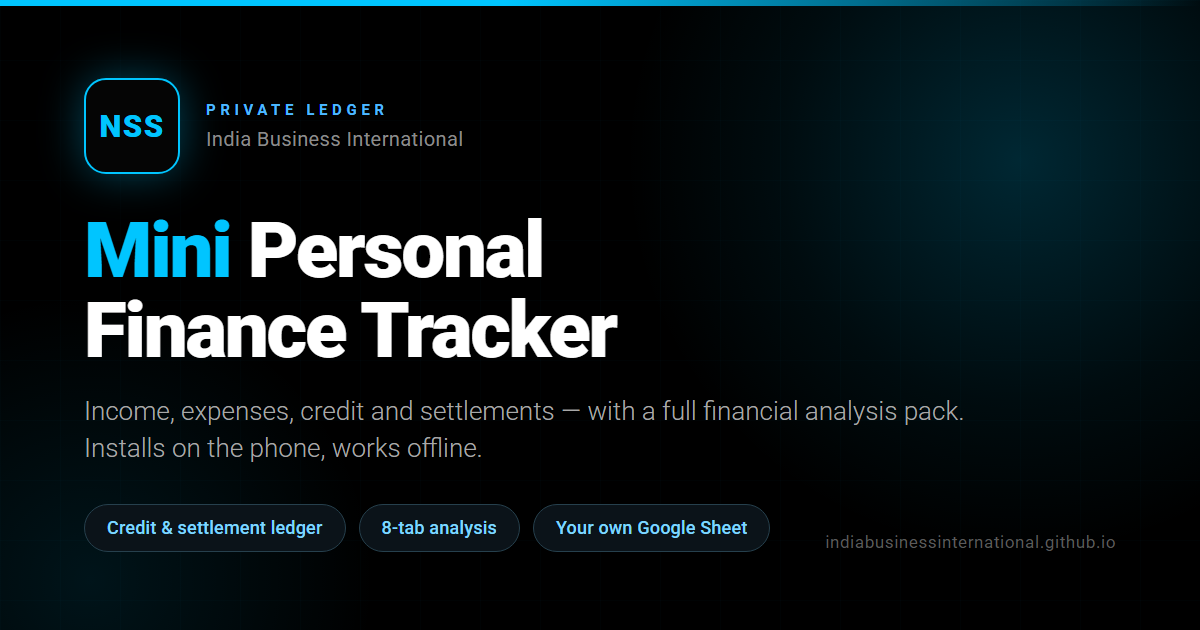
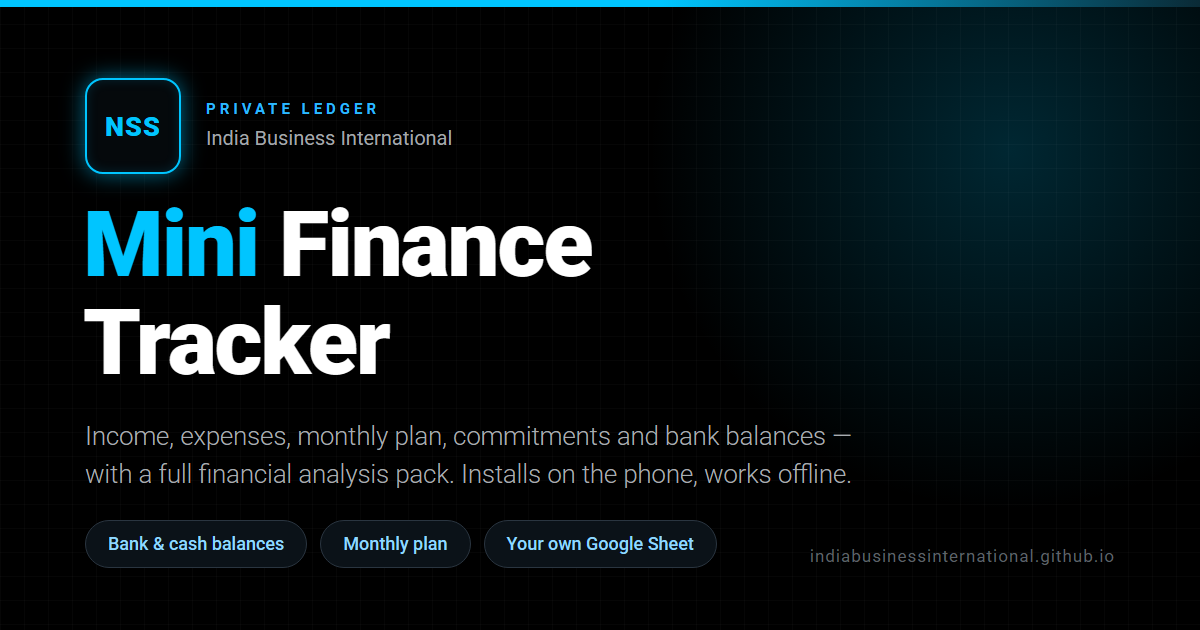
v4.4 — renamed Mini Finance Tracker
Display name only: title, top bar, sign-in gate, footer, print/CSV headers,
manifest name, OG/Twitter tags, a redrawn og-banner.png, GAS messages.
Address, repo and file names unchanged.

diff --git a/index.html b/index.html
@@ -7,21 +7,21 @@
 <meta name="apple-mobile-web-app-capable" content="yes">
 <meta name="apple-mobile-web-app-status-bar-style" content="black">
 <meta name="apple-mobile-web-app-title" content="Mini Finance">
-<meta name="description" content="Mini Personal Finance Tracker — a private income, expense and credit ledger for N. Sowdhamini Sasimurugan.">
-<title>Mini Personal Finance Tracker</title>
+<meta name="description" content="Mini Finance Tracker — a private income, expense and credit ledger for N. Sowdhamini Sasimurugan.">
+<title>Mini Finance Tracker</title>
 <!-- Open Graph / social sharing -->
 <meta property="og:type" content="website">
 <meta property="og:site_name" content="India Business International">
-<meta property="og:title" content="Mini Personal Finance Tracker">
+<meta property="og:title" content="Mini Finance Tracker">
 <meta property="og:description" content="A private personal ledger — fast entry, credit and settlement tracking, and a full financial analysis pack. Works offline on mobile.">
 <meta property="og:url" content="https://indiabusinessinternational.github.io/MiniPersonalFinanceTracker/">
 <meta property="og:image" content="https://indiabusinessinternational.github.io/MiniPersonalFinanceTracker/og-banner.png">
 <meta property="og:image:width" content="1200">
 <meta property="og:image:height" content="630">
-<meta property="og:image:alt" content="Mini Personal Finance Tracker — India Business International">
+<meta property="og:image:alt" content="Mini Finance Tracker — India Business International">
 <!-- Twitter Card -->
 <meta name="twitter:card" content="summary_large_image">
-<meta name="twitter:title" content="Mini Personal Finance Tracker">
+<meta name="twitter:title" content="Mini Finance Tracker">
 <meta name="twitter:description" content="A private personal ledger — fast entry, credit and settlement tracking, and a full financial analysis pack. Works offline on mobile.">
 <meta name="twitter:image" content="https://indiabusinessinternational.github.io/MiniPersonalFinanceTracker/og-banner.png">
 <link rel="canonical" href="https://indiabusinessinternational.github.io/MiniPersonalFinanceTracker/">
@@ -873,7 +873,7 @@ tbody tr.tx-row{cursor:pointer}
     <div class="topbar-left">
       <div class="mono-logo"><span class="js-mono">Mini</span></div>
       <div class="topbar-title">
-        <div class="app-name"><span class="app-name-text">Mini Personal Finance Tracker</span><span class="ver-badge">v4.3</span></div>
+        <div class="app-name"><span class="app-name-text">Mini Finance Tracker</span><span class="ver-badge">v4.4</span></div>
       </div>
     </div>
     <div class="topbar-right">
@@ -1222,7 +1222,7 @@ tbody tr.tx-row{cursor:pointer}
   <div id="bankBalList" class="cm-list"></div>
 </div><!-- /viewBal -->
 
-  <div class="footer">Mini Personal Finance Tracker v4.3 &mdash; <span id="footName">N. Sowdhamini Sasimurugan</span> &mdash; built by India Business International</div>
+  <div class="footer">Mini Finance Tracker v4.4 &mdash; <span id="footName">N. Sowdhamini Sasimurugan</span> &mdash; built by India Business International</div>
 </div>
 
 <!-- DRAWER MENU -->
@@ -1279,7 +1279,7 @@ tbody tr.tx-row{cursor:pointer}
   <!-- v3.2 — app and backend carry the SAME version number (CEO, 7 Sep 2026,
        "for easy noting"). Both are shown here; a bare number mismatch is only a
        note, a missing feature is what raises the amber prompts. -->
-  <div class="drawer-item" style="cursor:default;color:var(--text2);font-size:12px;align-items:flex-start"><i class="ti ti-info-circle"></i> <span id="aboutVer">App v4.3 · Backend: not connected yet</span></div>
+  <div class="drawer-item" style="cursor:default;color:var(--text2);font-size:12px;align-items:flex-start"><i class="ti ti-info-circle"></i> <span id="aboutVer">App v4.4 · Backend: not connected yet</span></div>
 </div>
 
 <!-- REPORT MODAL -->
@@ -1343,8 +1343,8 @@ tbody tr.tx-row{cursor:pointer}
     <div class="gate-brand">
       <div class="mono-logo"><span class="js-mono">Mini</span></div>
       <div>
-        <div class="gate-title" id="gateTitle">Mini Personal Finance Tracker</div>
-        <div class="gate-sub">Private ledger, plan &amp; commitments &middot; v4.3</div>
+        <div class="gate-title" id="gateTitle">Mini Finance Tracker</div>
+        <div class="gate-sub">Private ledger, plan &amp; commitments &middot; v4.4</div>
       </div>
     </div>
 
@@ -1404,7 +1404,7 @@ tbody tr.tx-row{cursor:pointer}
     <div class="ins-hero">
       <img class="ins-icon" src="icon-192.png" alt="" width="60" height="60">
       <div>
-        <div class="ins-hero-name">Mini Personal Finance Tracker</div>
+        <div class="ins-hero-name">Mini Finance Tracker</div>
         <div class="ins-hero-sub" id="insDevice">On this device</div>
       </div>
     </div>
@@ -5728,7 +5728,7 @@ function printReport(){
     @media print{ body{margin:11mm} }
   </style></head><body>
     <div class="head">
-      <div><h1>Mini Personal Finance Tracker</h1><h2>Financial Analysis Report</h2><div class="muted">${esc(PROFILE.name)}</div></div>
+      <div><h1>Mini Finance Tracker</h1><h2>Financial Analysis Report</h2><div class="muted">${esc(PROFILE.name)}</div></div>
       <div style="text-align:right"><div style="font-size:16px;font-weight:700">${esc(A.p.label)}</div>
         <div class="muted">${fmtDate(A.p.from)} → ${fmtDate(A.p.to)} · ${A.days} day(s)</div>
         <div class="muted">${A.rows.length} transaction(s)${repFilterText()?' · filters: '+esc(repFilterText()):''}</div></div>
@@ -5775,7 +5775,7 @@ function printReport(){
     <div class="sec">${block(A.expenses,'Expenditure — full listing (paid on the spot + taken on credit)',RED)}</div>
     ${A.settles.length?`<div class="sec">${block(A.settles,'Settlements — full listing (clearing earlier credit; not counted as spend again)',CY)}</div>`:''}
     <div class="sec">${qTbl}</div>
-    <div class="foot"><span>Generated ${esc(genAt)} IST — Mini Personal Finance Tracker v4.3</span><span>${esc(PROFILE.name)}</span></div>
+    <div class="foot"><span>Generated ${esc(genAt)} IST — Mini Finance Tracker v4.4</span><span>${esc(PROFILE.name)}</span></div>
   </body></html>`;
   const win=window.open('','_blank');
   if(!win){ showToast('Allow pop-ups to print, or use Download CSV','error'); return; }
@@ -5818,7 +5818,7 @@ function downloadReportCSV(){
   if(!lastReport){ showToast('Generate a report first','error'); return; }
   const {A,C}=lastReport;
   const rows=[
-    ['Mini Personal Finance Tracker — Financial Analysis Report'],
+    ['Mini Finance Tracker — Financial Analysis Report'],
     ['Account', PROFILE.name],
     ['Period', A.p.label],
     ['From', A.p.from, 'To', A.p.to, 'Days', A.days],
@@ -6034,7 +6034,7 @@ async function gateConnect(ev){
   try{
     const data = await rawCall(raw, {action:'ping'}, 2, 20000);
     if(!data || data.status !== 'ok' || data.app !== 'MPFT'){
-      gateMsg('connectMsg','err','That link answered, but it is not a Mini Personal Finance Tracker backend. Check that you pasted <b>GAS.gs</b> from this app and deployed it again.');
+      gateMsg('connectMsg','err','That link answered, but it is not a Mini Finance Tracker backend. Check that you pasted <b>GAS.gs</b> from this app and deployed it again.');
       return;
     }
     GAS_URL = raw;

diff --git a/sw.js b/sw.js
@@ -1,6 +1,6 @@
-/* Mini Personal Finance Tracker — service worker v3.7.0
+/* Mini Finance Tracker — service worker v4.4.0
    Bump CACHE on every release, in step with the version badge in index.html. */
-const CACHE  = 'mpft-v4.3.0';
+const CACHE  = 'mpft-v4.4.0';
 // The icons are precached too: an installed app that opens offline still has to
 // draw its own mark in the install dialog and the task switcher.
 const ASSETS = ['./', './index.html', './manifest.json',

diff --git a/README.md b/README.md
@@ -1,4 +1,7 @@
-# Mini Personal Finance Tracker v4.3
+# Mini Finance Tracker v4.4
+
+**Renamed (v4.4)** — the app is now called **Mini Finance Tracker** everywhere a person reads it (title, top bar, sign-in, footer, print and CSV headers, install name, link preview + a redrawn og-banner.png). The address, repo and files are unchanged, so bookmarks and the installed app keep working.
+
 
 **Bank & Cash Balances (v4.3)** — a new **Balances** section (bottom bar on a phone) keeps each account's balance as a *reading*, never as a transaction: account, date, balance, note. Each account shows its latest reading, the change since the one before and its history; the section totals every account and flags one not updated for 30 days. Readings live in their own **Balances** sheet (date stored as text, read with getDisplayValues), so they never touch Income, Expenses or any report — no more ₹1 entries. *Review & move* finds the old ₹1 / ₹0 balance rows in the ledger, reads the figure out of the description, and moves the ticked ones into Balances (idempotent: each reading's ID is BL + the ledger row's ID). Typing a ₹1 balance into the ledger now offers to record it under Balances instead. Paste the Apps Script v4.3 for the server half.
 
